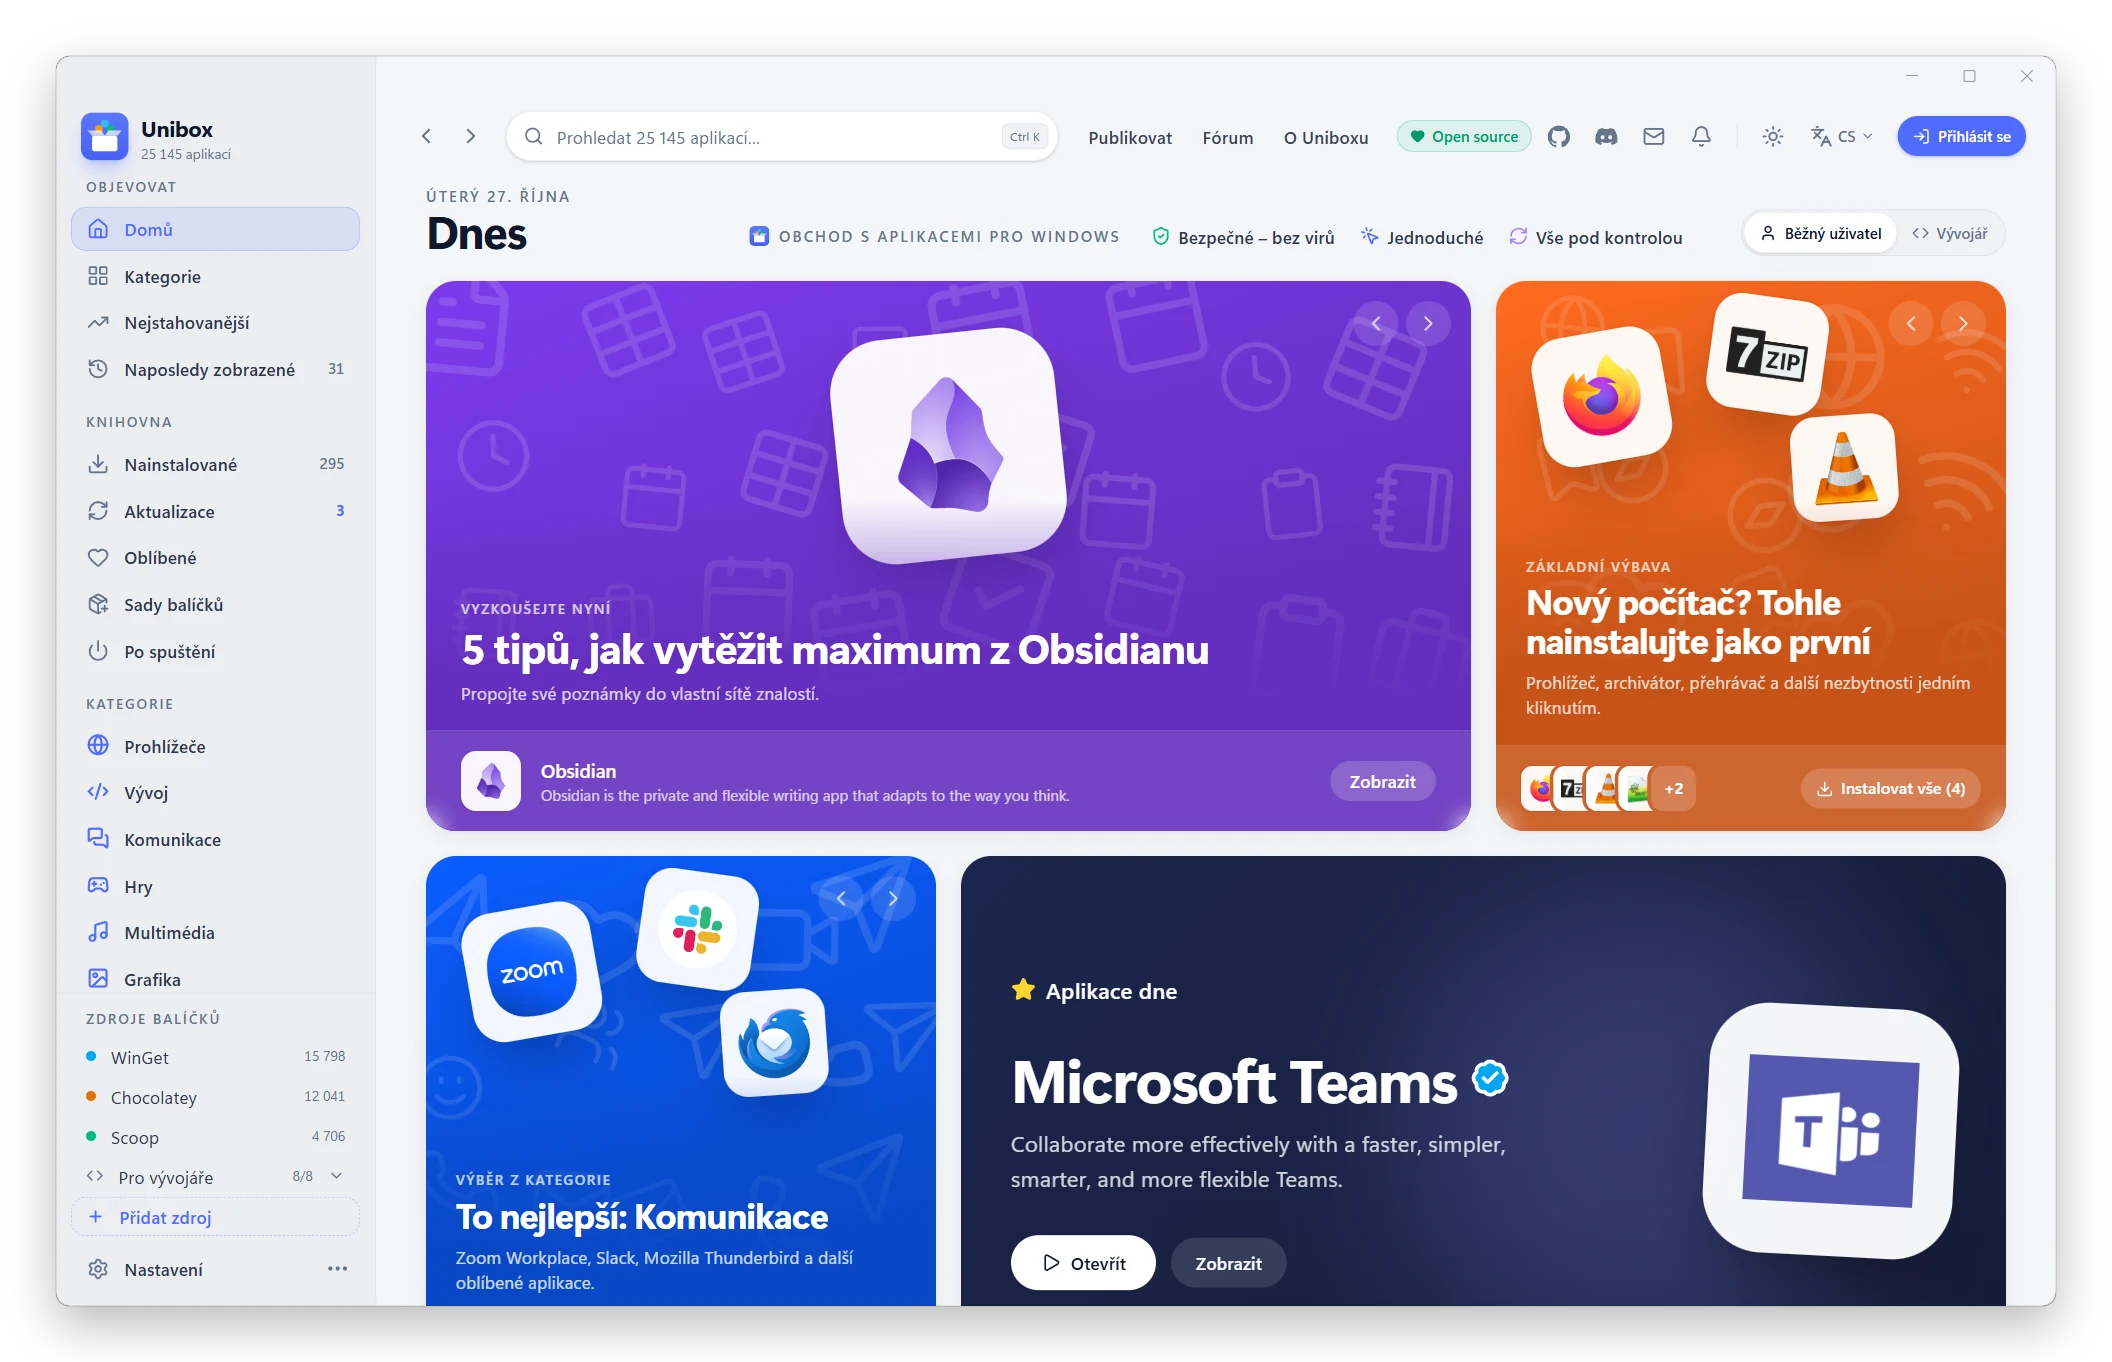
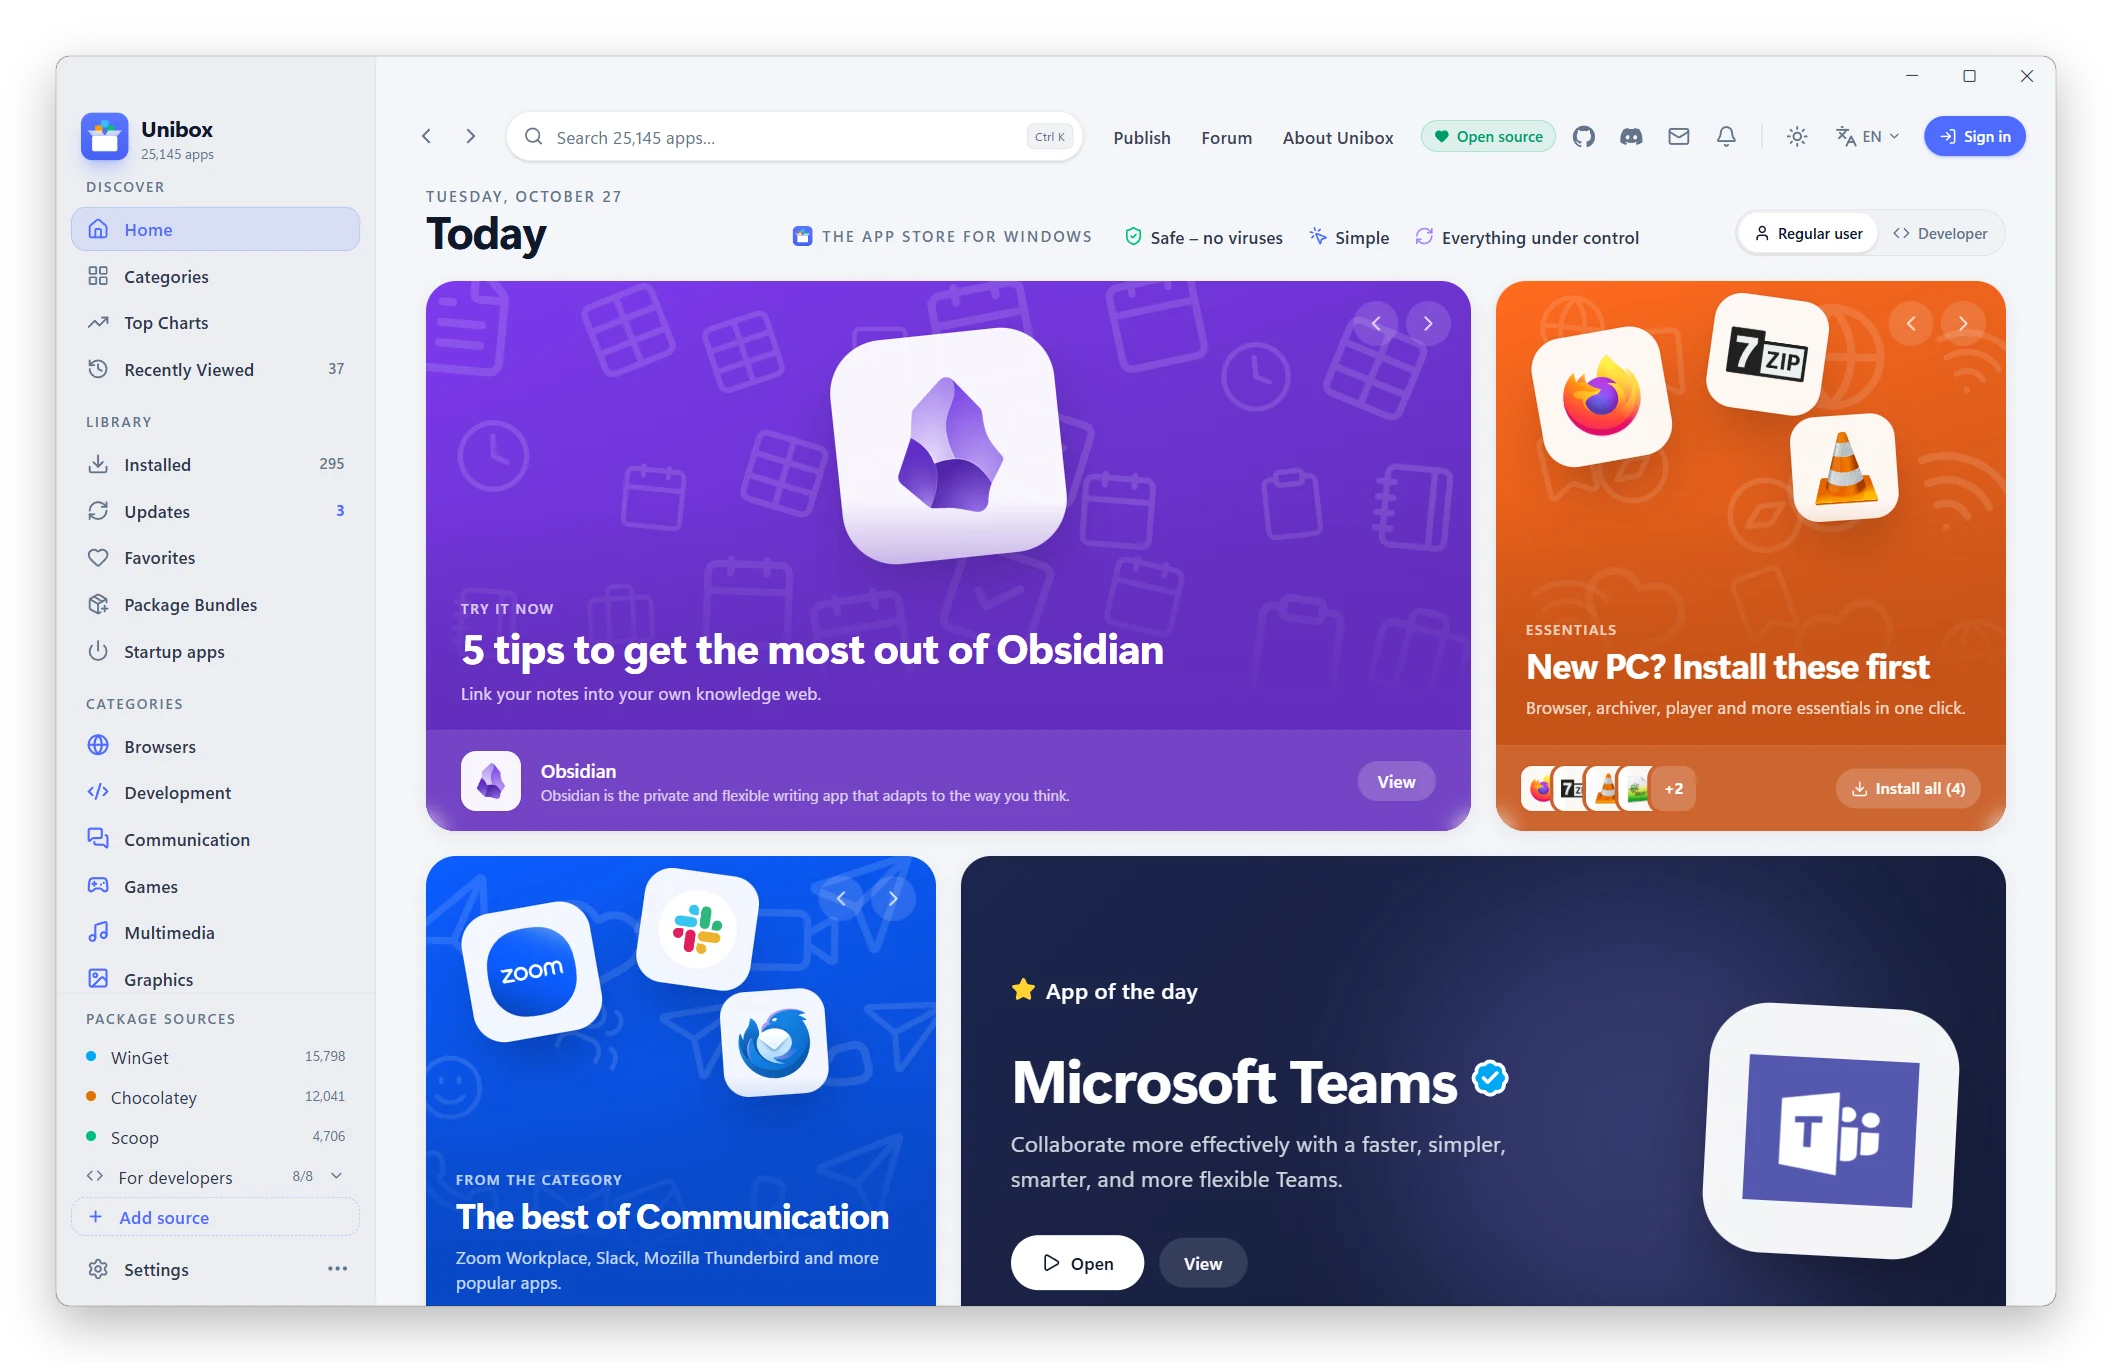
README: snímky v angličtině, detail aplikace při stahování

diff --git a/README.md b/README.md
@@ -21,7 +21,7 @@ instalátorů po webu, bez reklam a přibalených doplňků.
   <img src="assets/readme/okno-svetle.webp" alt="Okno Uniboxu – domovská stránka Dnes s tipy, kolekcemi a Aplikací dne">
 </picture>
 
-Domovská stránka Dnes – tipy, kolekce a Aplikace dne. Světlý i tmavý motiv podle Windows.
+Domovská stránka – tipy, kolekce a Aplikace dne. Česky i anglicky, světlý i tmavý motiv podle Windows.
 
 </div>
 
@@ -44,8 +44,8 @@ Vyhledávání přes <kbd>Ctrl</kbd>+<kbd>K</kbd> prohledá katalog i živě spr
 ověřené aplikace jsou ve výsledcích první.
 
 <picture>
-  <source media="(prefers-color-scheme: dark)" srcset="website/img/screens/kolekce.webp">
-  <img src="website/img/screens/kolekce-svetly.webp" alt="Kolekce aplikací podle zaměření a žebříček Trendy">
+  <source media="(prefers-color-scheme: dark)" srcset="website/img/screens/en/kolekce.webp">
+  <img src="website/img/screens/en/kolekce-svetly.webp" alt="Kolekce aplikací podle zaměření a žebříček Trendy">
 </picture>
 
 ### Detail aplikace jako v App Storu
@@ -55,10 +55,12 @@ obrazovku, co je nového, hodnocení a recenze, ochrana soukromí a odkazy na we
 dokumentaci a podporu. Technické údaje: SHA-256, typ instalátoru, systémové požadavky
 a závislosti.
 
+Instalace jedním kliknutím z vybraného zdroje, s průběhem stahování přímo v detailu.
+
 <p align="center">
 <picture>
-  <source media="(prefers-color-scheme: dark)" srcset="assets/readme/detail-tmave.webp">
-  <img src="assets/readme/detail-svetle.webp" alt="Okno Uniboxu s detailem aplikace Steam: banner, tlačítka, ověření SHA-256, údaje a odkazy">
+  <source media="(prefers-color-scheme: dark)" srcset="assets/readme/stahovani-tmave.webp">
+  <img src="assets/readme/stahovani-svetle.webp" alt="Okno Uniboxu s detailem aplikace Obsidian během stahování (47 %), výběrem zdroje a ověřením SHA-256">
 </picture>
 </p>
 
@@ -70,8 +72,8 @@ nebo automaticky podle plánu. Selže-li operace kvůli oprávněním, Unibox ji
 s právy správce.
 
 <picture>
-  <source media="(prefers-color-scheme: dark)" srcset="website/img/screens/nainstalovane.webp">
-  <img src="website/img/screens/nainstalovane-svetly.webp" alt="Seznam nainstalovaných aplikací s tlačítky Otevřít a Aktualizovat vše">
+  <source media="(prefers-color-scheme: dark)" srcset="website/img/screens/en/nainstalovane.webp">
+  <img src="website/img/screens/en/nainstalovane-svetly.webp" alt="Seznam nainstalovaných aplikací s tlačítky Otevřít a Aktualizovat vše">
 </picture>
 
 ### A k tomu
